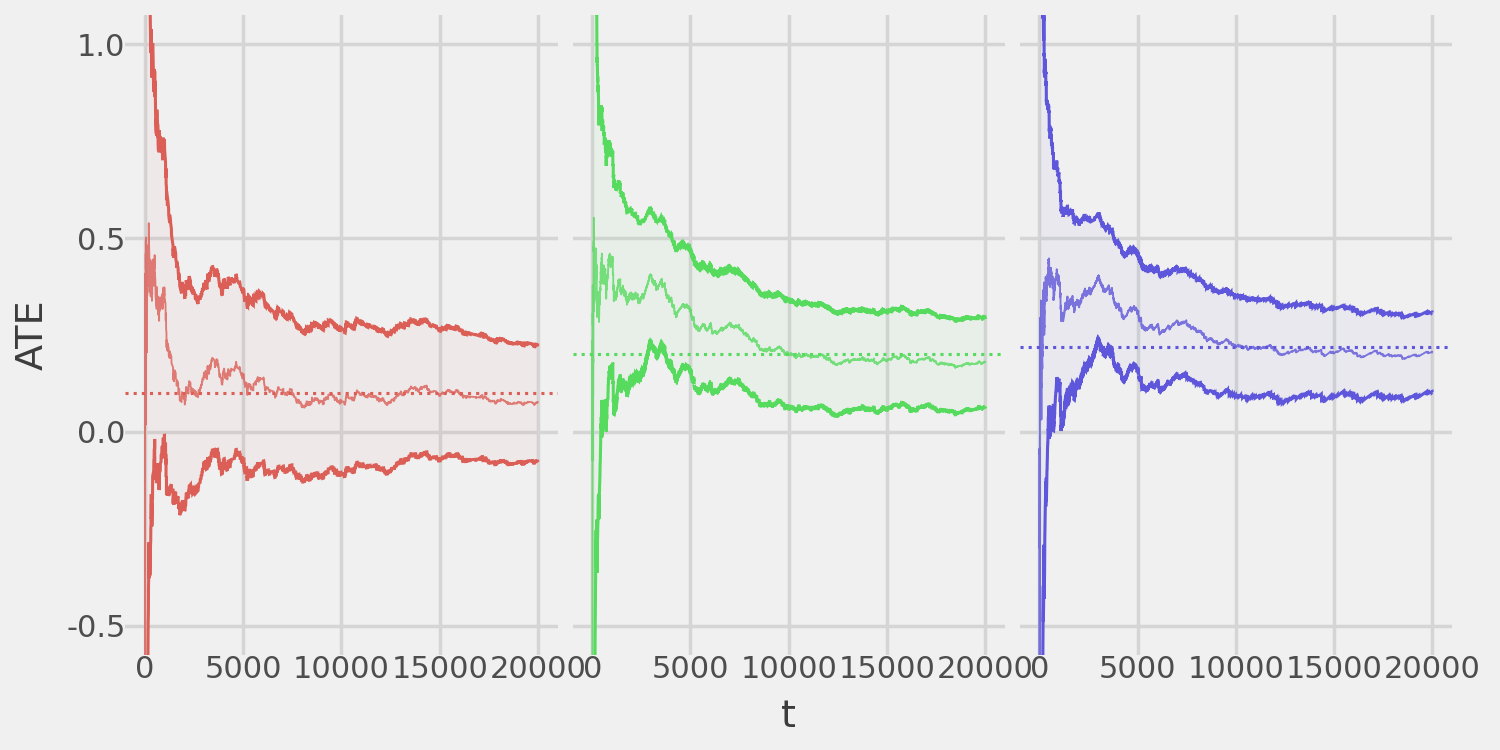
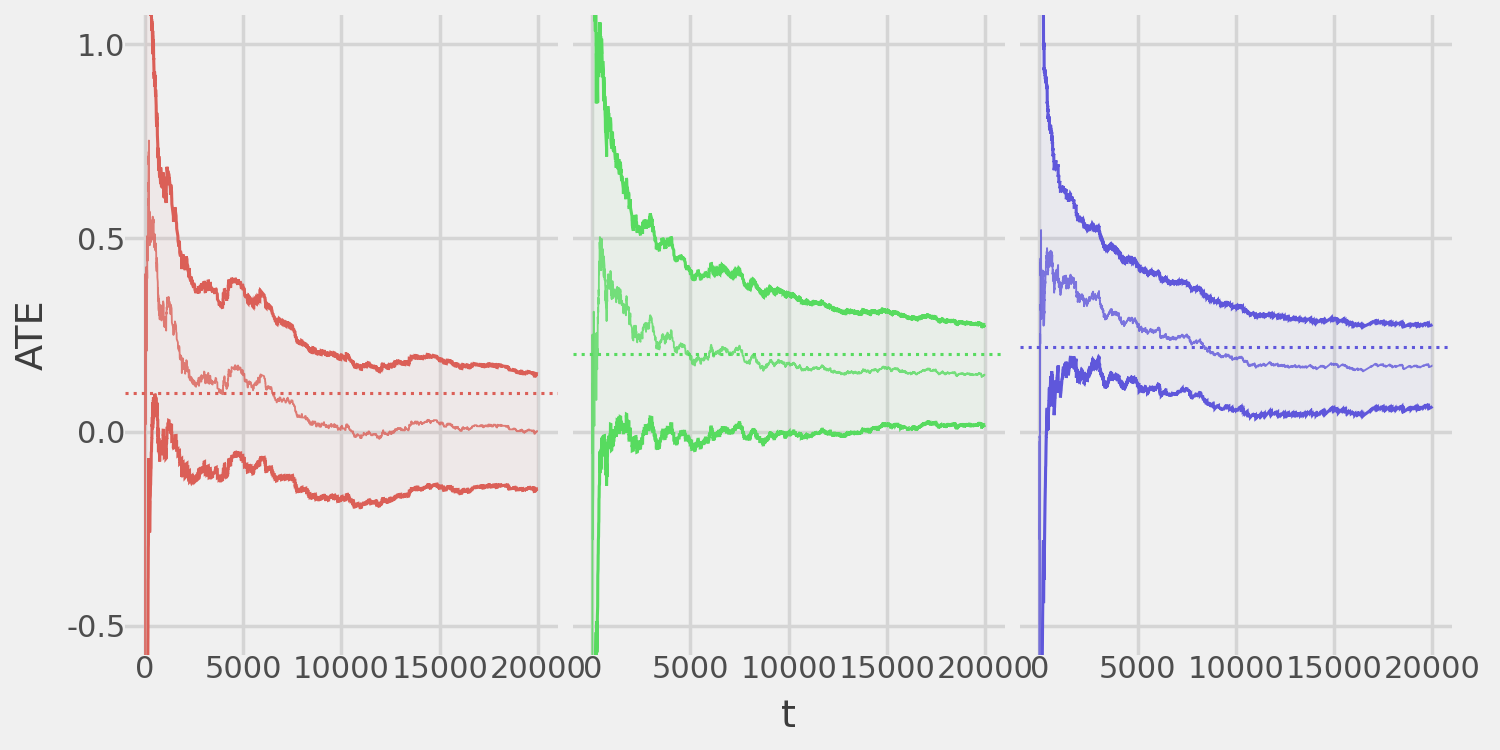
Deploying to gh-pages from @ dmolitor/pyssed@10b51d6af37b111d9091e0a1bfe80e40e18594c7 🚀

diff --git a/index.html b/index.html
@@ -134,10 +134,9 @@ window.Quarto = {
 };
 </script>
 
-<link rel="stylesheet" href="styles.css">
 </head>
 
-<body class="nav-fixed">
+<body class="nav-fixed fullcontent">
 
 <div id="quarto-search-results"></div>
   <header id="quarto-header" class="headroom fixed-top">
@@ -176,12 +175,12 @@ window.Quarto = {
     </nav>
 </header>
 <!-- content -->
-<div id="quarto-content" class="quarto-container page-columns page-rows-contents page-layout-full page-navbar">
+<div id="quarto-content" class="quarto-container page-columns page-rows-contents page-layout-article page-navbar">
 <!-- sidebar -->
 <!-- margin-sidebar -->
     
 <!-- main -->
-<main class="content column-page" id="quarto-document-content"><header id="title-block-header" class="quarto-title-block"></header>
+<main class="content" id="quarto-document-content"><header id="title-block-header" class="quarto-title-block"></header>
 
 
 
@@ -203,7 +202,7 @@ window.Quarto = {
 <h2 class="anchored" data-anchor-id="usage">Usage</h2>
 <p>We’ll simulate an experiment with three treatment arms and one control arm using Thompson Sampling (TS) as the bandit algorithm. We’ll demonstrate how MAD enables unbiased ATE estimation for all treatments while maintaining valid confidence sequences.</p>
 <p>First, import the necessary packages:</p>
-<div id="a463a53f" class="cell" data-execution_count="2">
+<div id="c2e80378" class="cell" data-execution_count="2">
 <div class="sourceCode cell-code" id="cb3"><pre class="sourceCode python code-with-copy"><code class="sourceCode python"><span id="cb3-1"><a href="#cb3-1" aria-hidden="true" tabindex="-1"></a><span class="im">import</span> numpy <span class="im">as</span> np</span>
 <span id="cb3-2"><a href="#cb3-2" aria-hidden="true" tabindex="-1"></a><span class="im">import</span> pandas <span class="im">as</span> pd</span>
 <span id="cb3-3"><a href="#cb3-3" aria-hidden="true" tabindex="-1"></a><span class="im">import</span> plotnine <span class="im">as</span> pn</span>
@@ -215,7 +214,7 @@ window.Quarto = {
 <section id="treatment-arm-outcomes" class="level3">
 <h3 class="anchored" data-anchor-id="treatment-arm-outcomes">Treatment arm outcomes</h3>
 <p>Next, define a function to generate outcomes (rewards) for each experiment arm:</p>
-<div id="57e772ae" class="cell" data-execution_count="4">
+<div id="4f6e7872" class="cell" data-execution_count="4">
 <div class="sourceCode cell-code" id="cb4"><pre class="sourceCode python code-with-copy"><code class="sourceCode python"><span id="cb4-1"><a href="#cb4-1" aria-hidden="true" tabindex="-1"></a><span class="kw">def</span> reward_fn(arm: <span class="bu">int</span>) <span class="op">-&gt;</span> <span class="bu">float</span>:</span>
 <span id="cb4-2"><a href="#cb4-2" aria-hidden="true" tabindex="-1"></a>    values <span class="op">=</span> {</span>
 <span id="cb4-3"><a href="#cb4-3" aria-hidden="true" tabindex="-1"></a>        <span class="dv">0</span>: generator.binomial(<span class="dv">1</span>, <span class="fl">0.5</span>),  <span class="co"># Control arm</span></span>
@@ -240,7 +239,7 @@ window.Quarto = {
 </ul>
 <p>For full details, see the <code>pyssed.Bandit</code> documentation.</p>
 <p>The following is an example TS implementation:</p>
-<div id="58725f30" class="cell" data-execution_count="5">
+<div id="41ed9bbe" class="cell" data-execution_count="5">
 <div class="sourceCode cell-code" id="cb5"><pre class="sourceCode python code-with-copy"><code class="sourceCode python"><span id="cb5-1"><a href="#cb5-1" aria-hidden="true" tabindex="-1"></a><span class="kw">class</span> TSBernoulli(Bandit):</span>
 <span id="cb5-2"><a href="#cb5-2" aria-hidden="true" tabindex="-1"></a>    <span class="co">"""</span></span>
 <span id="cb5-3"><a href="#cb5-3" aria-hidden="true" tabindex="-1"></a><span class="co">    A class for implementing Thompson Sampling on Bernoulli data</span></span>
@@ -301,7 +300,7 @@ window.Quarto = {
 <p>For our MAD design, we need a function that takes the time step <span class="math inline">\(t\)</span> and computes a sequence converging to 0. The key requirement is that this sequence must decay slower than <span class="math inline">\(1/(t^{1/4})\)</span>.</p>
 <p>Intuitively, a sequence of <span class="math inline">\(1/t^0 = 1\)</span> corresponds to Bernoulli randomization, while a sequence of <span class="math inline">\(1/(t^{0.24})\)</span> closely follows the TS assignment policy.</p>
 <p>In this example, we use <span class="math inline">\(1/(t^{0.24})\)</span> as our sequence. Additionally, we estimate 95% confidence sequences, setting our test size <span class="math inline">\(\alpha=0.05\)</span>. We run the experiment for 20,000 iterations (<code>t_star = 20000</code>).</p>
-<div id="839e4cc4" class="cell" data-execution_count="6">
+<div id="97bf9a1a" class="cell" data-execution_count="6">
 <div class="sourceCode cell-code" id="cb6"><pre class="sourceCode python code-with-copy"><code class="sourceCode python"><span id="cb6-1"><a href="#cb6-1" aria-hidden="true" tabindex="-1"></a>experiment <span class="op">=</span> MAD(</span>
 <span id="cb6-2"><a href="#cb6-2" aria-hidden="true" tabindex="-1"></a>    bandit<span class="op">=</span>TSBernoulli(k<span class="op">=</span><span class="dv">4</span>, control<span class="op">=</span><span class="dv">0</span>, reward<span class="op">=</span>reward_fn),</span>
 <span id="cb6-3"><a href="#cb6-3" aria-hidden="true" tabindex="-1"></a>    alpha<span class="op">=</span><span class="fl">0.05</span>,</span>
@@ -314,17 +313,17 @@ window.Quarto = {
 <section id="point-estimates-and-confidence-bands" class="level3">
 <h3 class="anchored" data-anchor-id="point-estimates-and-confidence-bands">Point estimates and confidence bands</h3>
 <p>Now, to examine the results we can print a summary of the ATEs and their corresponding confidence sequences at the end of the experiment:</p>
-<div id="ac960f7b" class="cell" data-execution_count="7">
+<div id="43a7859f" class="cell" data-execution_count="7">
 <div class="sourceCode cell-code" id="cb7"><pre class="sourceCode python code-with-copy"><code class="sourceCode python"><span id="cb7-1"><a href="#cb7-1" aria-hidden="true" tabindex="-1"></a>experiment.summary()</span></code><button title="Copy to Clipboard" class="code-copy-button"><i class="bi"></i></button></pre></div>
 <div class="cell-output cell-output-stdout">
 <pre><code>Treatment effect estimates:
-- Arm 1: 0.076 (-0.07416, 0.22552)
-- Arm 2: 0.181 (0.0648, 0.29684)
-- Arm 3: 0.205 (0.10259, 0.3076)</code></pre>
+- Arm 1: 0.002 (-0.14609, 0.14981)
+- Arm 2: 0.147 (0.01869, 0.27602)
+- Arm 3: 0.171 (0.06575, 0.27687)</code></pre>
 </div>
 </div>
 <p>We can also extract this summary into a pandas DataFrame:</p>
-<div id="891d18b9" class="cell" data-execution_count="8">
+<div id="5c37e4f9" class="cell" data-execution_count="8">
 <div class="sourceCode cell-code" id="cb9"><pre class="sourceCode python code-with-copy"><code class="sourceCode python"><span id="cb9-1"><a href="#cb9-1" aria-hidden="true" tabindex="-1"></a>experiment.estimates()</span></code><button title="Copy to Clipboard" class="code-copy-button"><i class="bi"></i></button></pre></div>
 <div class="cell-output cell-output-display" data-execution_count="8">
 <table class="dataframe caption-top table table-sm table-striped small" data-quarto-postprocess="true" data-border="1">
@@ -341,23 +340,23 @@ window.Quarto = {
 <tr class="odd">
 <td data-quarto-table-cell-role="th">0</td>
 <td>1</td>
-<td>0.075682</td>
-<td>-0.074156</td>
-<td>0.225519</td>
+<td>0.001858</td>
+<td>-0.146092</td>
+<td>0.149809</td>
 </tr>
 <tr class="even">
 <td data-quarto-table-cell-role="th">1</td>
 <td>2</td>
-<td>0.180820</td>
-<td>0.064803</td>
-<td>0.296837</td>
+<td>0.147355</td>
+<td>0.018686</td>
+<td>0.276024</td>
 </tr>
 <tr class="odd">
 <td data-quarto-table-cell-role="th">2</td>
 <td>3</td>
-<td>0.205095</td>
-<td>0.102590</td>
-<td>0.307600</td>
+<td>0.171309</td>
+<td>0.065746</td>
+<td>0.276872</td>
 </tr>
 </tbody>
 </table>
@@ -369,7 +368,7 @@ window.Quarto = {
 <section id="plotting-results" class="level3">
 <h3 class="anchored" data-anchor-id="plotting-results">Plotting results</h3>
 <p>We can also visualize the ATE estimates and confidence sequences for each treatment arm over time.</p>
-<div id="cbe27327" class="cell" data-execution_count="9">
+<div id="949f62cc" class="cell" data-execution_count="9">
 <div class="sourceCode cell-code" id="cb10"><pre class="sourceCode python code-with-copy"><code class="sourceCode python"><span id="cb10-1"><a href="#cb10-1" aria-hidden="true" tabindex="-1"></a>(</span>
 <span id="cb10-2"><a href="#cb10-2" aria-hidden="true" tabindex="-1"></a>    experiment.plot_ate()</span>
 <span id="cb10-3"><a href="#cb10-3" aria-hidden="true" tabindex="-1"></a>    <span class="op">+</span> pn.coord_cartesian(ylim<span class="op">=</span>(<span class="op">-</span><span class="fl">.5</span>, <span class="fl">1.0</span>))</span>
@@ -390,7 +389,7 @@ window.Quarto = {
 </div>
 <p>The ATE estimates converge toward the ground truth, and the confidence sequences maintain valid coverage!</p>
 <p>We can also examine the algorithm’s sample assignment strategy over time.</p>
-<div id="97910237" class="cell" data-execution_count="10">
+<div id="73e43c3e" class="cell" data-execution_count="10">
 <div class="sourceCode cell-code" id="cb11"><pre class="sourceCode python code-with-copy"><code class="sourceCode python"><span id="cb11-1"><a href="#cb11-1" aria-hidden="true" tabindex="-1"></a>experiment.plot_sample_assignment()</span></code><button title="Copy to Clipboard" class="code-copy-button"><i class="bi"></i></button></pre></div>
 <div class="cell-output cell-output-display">
 <div>
@@ -402,7 +401,7 @@ window.Quarto = {
 </div>
 <p>Due to the TS algorithm, most samples go to the optimal Arm 3 and secondary Arm 2, with some random exploration in Arms 0 and 1.</p>
 <p>Similarly, we can plot the total sample assignments per arm.</p>
-<div id="02d1e25d" class="cell" data-execution_count="11">
+<div id="26e3e8a9" class="cell" data-execution_count="11">
 <div class="sourceCode cell-code" id="cb12"><pre class="sourceCode python code-with-copy"><code class="sourceCode python"><span id="cb12-1"><a href="#cb12-1" aria-hidden="true" tabindex="-1"></a>experiment.plot_n()</span></code><button title="Copy to Clipboard" class="code-copy-button"><i class="bi"></i></button></pre></div>
 <div class="cell-output cell-output-display">
 <div>
@@ -416,7 +415,7 @@ window.Quarto = {
 <section id="equivalence-to-a-completely-randomized-design" class="level3">
 <h3 class="anchored" data-anchor-id="equivalence-to-a-completely-randomized-design">Equivalence to a completely randomized design</h3>
 <p>As noted above, setting the time-diminishing sequence <span class="math inline">\(\delta_t = 1/t^0 = 1\)</span> results in a fully randomized design. We can easily demonstrate this:</p>
-<div id="dbee5195" class="cell" data-execution_count="12">
+<div id="550cc9ee" class="cell" data-execution_count="12">
 <div class="sourceCode cell-code" id="cb13"><pre class="sourceCode python code-with-copy"><code class="sourceCode python"><span id="cb13-1"><a href="#cb13-1" aria-hidden="true" tabindex="-1"></a>exp_bernoulli <span class="op">=</span> MAD(</span>
 <span id="cb13-2"><a href="#cb13-2" aria-hidden="true" tabindex="-1"></a>    bandit<span class="op">=</span>TSBernoulli(k<span class="op">=</span><span class="dv">4</span>, control<span class="op">=</span><span class="dv">0</span>, reward<span class="op">=</span>reward_fn),</span>
 <span id="cb13-3"><a href="#cb13-3" aria-hidden="true" tabindex="-1"></a>    alpha<span class="op">=</span><span class="fl">0.05</span>,</span>
@@ -426,7 +425,7 @@ window.Quarto = {
 <span id="cb13-7"><a href="#cb13-7" aria-hidden="true" tabindex="-1"></a>exp_bernoulli.fit(verbose<span class="op">=</span><span class="va">False</span>)</span></code><button title="Copy to Clipboard" class="code-copy-button"><i class="bi"></i></button></pre></div>
 </div>
 <p>As before, we can plot the convergence of the estimated ATEs to the ground truth:</p>
-<div id="e942ff07" class="cell" data-execution_count="13">
+<div id="efac5c00" class="cell" data-execution_count="13">
 <div class="sourceCode cell-code" id="cb14"><pre class="sourceCode python code-with-copy"><code class="sourceCode python"><span id="cb14-1"><a href="#cb14-1" aria-hidden="true" tabindex="-1"></a>(</span>
 <span id="cb14-2"><a href="#cb14-2" aria-hidden="true" tabindex="-1"></a>    exp_bernoulli.plot_ate()</span>
 <span id="cb14-3"><a href="#cb14-3" aria-hidden="true" tabindex="-1"></a>    <span class="op">+</span> pn.coord_cartesian(ylim<span class="op">=</span>(<span class="op">-</span><span class="fl">.1</span>, <span class="fl">0.6</span>))</span>
@@ -446,7 +445,7 @@ window.Quarto = {
 </div>
 </div>
 <p>And we can verify fully random assignment:</p>
-<div id="34bb06c8" class="cell" data-execution_count="14">
+<div id="0a73efc7" class="cell" data-execution_count="14">
 <div class="sourceCode cell-code" id="cb15"><pre class="sourceCode python code-with-copy"><code class="sourceCode python"><span id="cb15-1"><a href="#cb15-1" aria-hidden="true" tabindex="-1"></a>exp_bernoulli.plot_n()</span></code><button title="Copy to Clipboard" class="code-copy-button"><i class="bi"></i></button></pre></div>
 <div class="cell-output cell-output-display">
 <div>

diff --git a/reference/Bandit.html b/reference/Bandit.html
@@ -102,10 +102,9 @@ pre > code.sourceCode > span > a:first-child::before { text-decoration: underlin
 }</script>
 
 
-<link rel="stylesheet" href="../styles.css">
 </head>
 
-<body class="nav-fixed">
+<body class="nav-fixed fullcontent">
 
 <div id="quarto-search-results"></div>
   <header id="quarto-header" class="headroom fixed-top">
@@ -144,12 +143,12 @@ pre > code.sourceCode > span > a:first-child::before { text-decoration: underlin
     </nav>
 </header>
 <!-- content -->
-<div id="quarto-content" class="quarto-container page-columns page-rows-contents page-layout-full page-navbar">
+<div id="quarto-content" class="quarto-container page-columns page-rows-contents page-layout-article page-navbar">
 <!-- sidebar -->
 <!-- margin-sidebar -->
     
 <!-- main -->
-<main class="content column-page" id="quarto-document-content"><header id="title-block-header" class="quarto-title-block"></header>
+<main class="content" id="quarto-document-content"><header id="title-block-header" class="quarto-title-block"></header>
 
 
 

diff --git a/reference/MAD.html b/reference/MAD.html
@@ -102,10 +102,9 @@ pre > code.sourceCode > span > a:first-child::before { text-decoration: underlin
 }</script>
 
 
-<link rel="stylesheet" href="../styles.css">
 </head>
 
-<body class="nav-fixed">
+<body class="nav-fixed fullcontent">
 
 <div id="quarto-search-results"></div>
   <header id="quarto-header" class="headroom fixed-top">
@@ -144,12 +143,12 @@ pre > code.sourceCode > span > a:first-child::before { text-decoration: underlin
     </nav>
 </header>
 <!-- content -->
-<div id="quarto-content" class="quarto-container page-columns page-rows-contents page-layout-full page-navbar">
+<div id="quarto-content" class="quarto-container page-columns page-rows-contents page-layout-article page-navbar">
 <!-- sidebar -->
 <!-- margin-sidebar -->
     
 <!-- main -->
-<main class="content column-page" id="quarto-document-content"><header id="title-block-header" class="quarto-title-block"></header>
+<main class="content" id="quarto-document-content"><header id="title-block-header" class="quarto-title-block"></header>
 
 
 

diff --git a/reference/index.html b/reference/index.html
@@ -68,10 +68,9 @@ ul.task-list li input[type="checkbox"] {
 }</script>
 
 
-<link rel="stylesheet" href="../styles.css">
 </head>
 
-<body class="nav-fixed">
+<body class="nav-fixed fullcontent">
 
 <div id="quarto-search-results"></div>
   <header id="quarto-header" class="headroom fixed-top">
@@ -110,12 +109,12 @@ ul.task-list li input[type="checkbox"] {
     </nav>
 </header>
 <!-- content -->
-<div id="quarto-content" class="quarto-container page-columns page-rows-contents page-layout-full page-navbar">
+<div id="quarto-content" class="quarto-container page-columns page-rows-contents page-layout-article page-navbar">
 <!-- sidebar -->
 <!-- margin-sidebar -->
     
 <!-- main -->
-<main class="content column-page" id="quarto-document-content"><header id="title-block-header" class="quarto-title-block"></header>
+<main class="content" id="quarto-document-content"><header id="title-block-header" class="quarto-title-block"></header>
 
 
 
